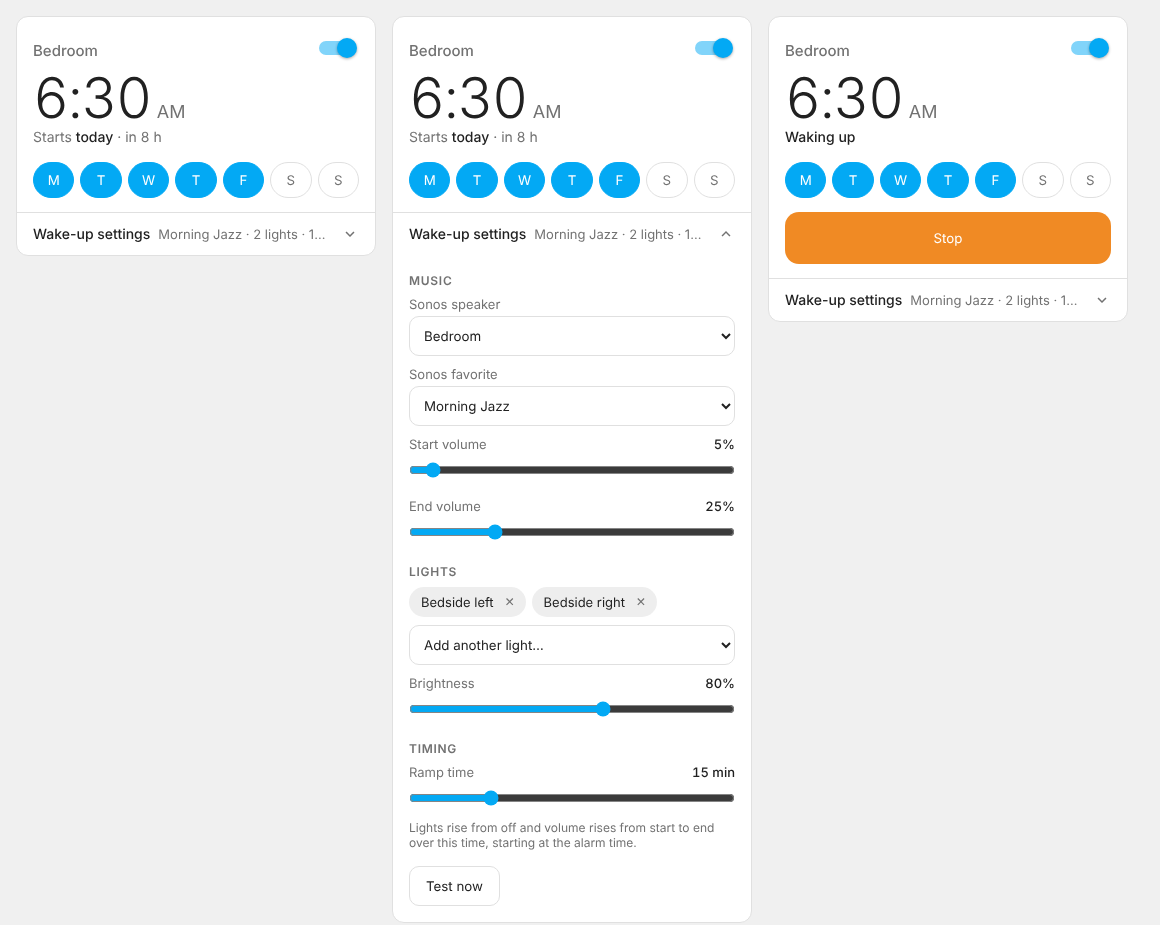
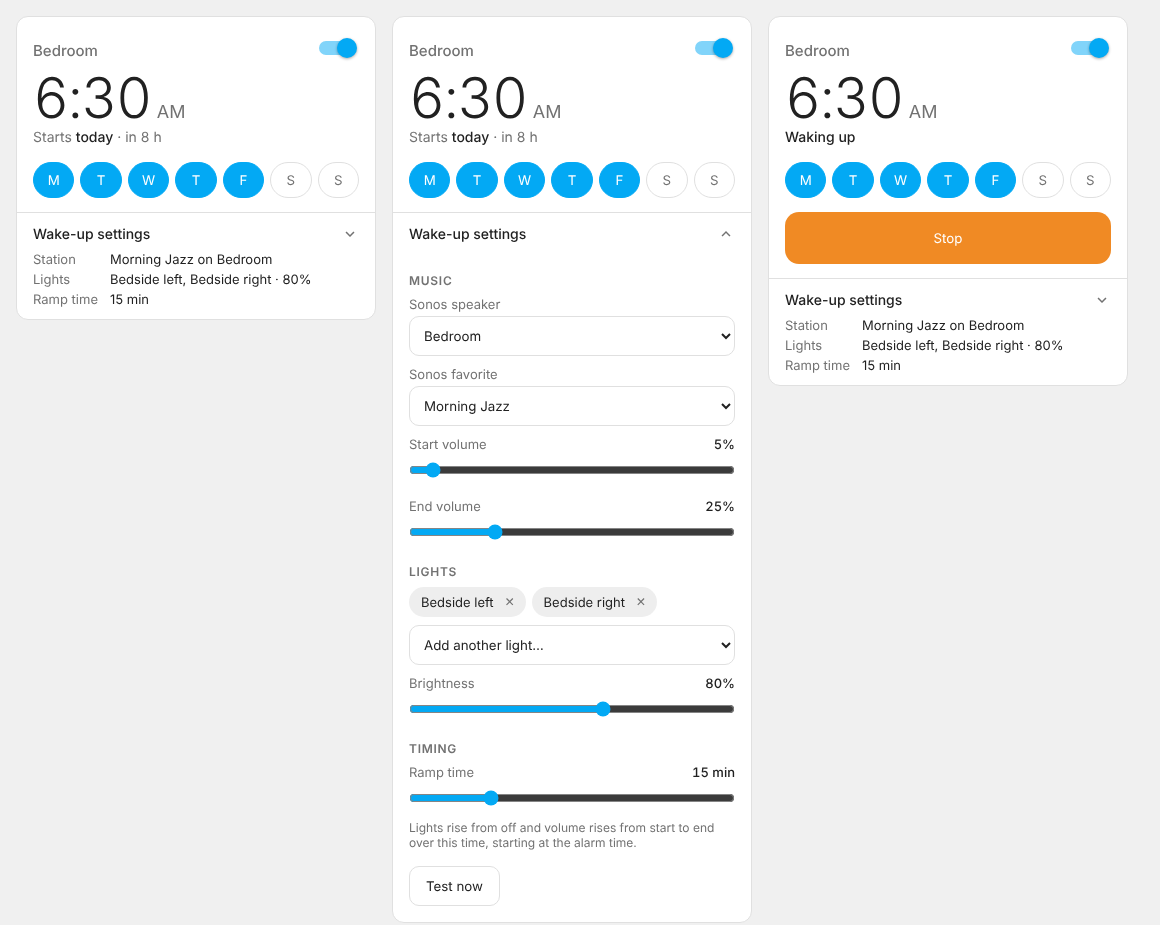
Card: show station, lights and ramp time on separate lines; release 1.0.0
Claude-Session: https://claude.ai/code/session_01XzVmR28ouTyUFrCegEJS1p

diff --git a/custom_components/sunrise_alarm/frontend/sunrise-alarm-card.js b/custom_components/sunrise_alarm/frontend/sunrise-alarm-card.js
@@ -8,7 +8,7 @@
  * favorite, volume, lights, brightness, ramp time) is set from the card.
  */
 
-const CARD_VERSION = "0.2.0";
+const CARD_VERSION = "1.0.0";
 const DOMAIN = "sunrise_alarm";
 const DAYS = ["mon", "tue", "wed", "thu", "fri", "sat", "sun"];
 
@@ -45,13 +45,19 @@ const STYLE = `
     background: #f08a24; color: #fff; font: 500 16px/1 inherit; font-family: inherit; cursor: pointer; }
   .stop[hidden] { display: none; }
 
-  .toggle { display: flex; align-items: center; gap: 8px; margin: 14px -16px -16px; padding: 12px 16px;
+  .toggle { display: block; margin: 14px -16px -16px; padding: 12px 16px;
     border-top: 1px solid var(--divider-color); cursor: pointer; background: none; border-left: 0;
     border-right: 0; border-bottom: 0; width: calc(100% + 32px); text-align: left; font-family: inherit;
     color: var(--primary-text-color); }
-  .toggle .label { font-size: 14px; font-weight: 500; flex: none; }
-  .toggle .brief { font-size: 13px; color: var(--secondary-text-color); flex: 1; min-width: 0;
-    white-space: nowrap; overflow: hidden; text-overflow: ellipsis; text-align: right; }
+  .toggle .head { display: flex; align-items: center; justify-content: space-between; gap: 8px; }
+  .toggle .label { font-size: 14px; font-weight: 500; }
+  .brief { display: grid; grid-template-columns: auto 1fr; column-gap: 12px; row-gap: 4px;
+    margin-top: 8px; font-size: 13px; }
+  .brief .k { color: var(--secondary-text-color); }
+  .brief .v { color: var(--primary-text-color); min-width: 0;
+    white-space: nowrap; overflow: hidden; text-overflow: ellipsis; }
+  .brief .v.none { color: var(--secondary-text-color); }
+  .open .brief { display: none; }
   .chev { width: 18px; height: 18px; flex: none; transition: transform 150ms; fill: var(--secondary-text-color); }
   .open .chev { transform: rotate(180deg); }
   .open .toggle { margin-bottom: 0; }
@@ -207,7 +213,12 @@ class SunriseAlarmCard extends HTMLElement {
         <button class="stop" hidden>Stop</button>
 
         <button class="toggle" aria-expanded="false">
-          <span class="label">Wake-up settings</span><span class="brief"></span>${CHEVRON}
+          <span class="head"><span class="label">Wake-up settings</span>${CHEVRON}</span>
+          <span class="brief">
+            <span class="k">Station</span><span class="v" data-brief="station"></span>
+            <span class="k">Lights</span><span class="v" data-brief="lights"></span>
+            <span class="k">Ramp time</span><span class="v" data-brief="ramp"></span>
+          </span>
         </button>
         <div class="settings">
           <div class="group">
@@ -352,12 +363,18 @@ class SunriseAlarmCard extends HTMLElement {
     });
     $(".stop").hidden = !waking;
 
-    // Collapsed one-line summary
-    const parts = [];
-    if (s.speaker) parts.push(s.favorite_name || this._name(s.speaker));
-    if (s.lights?.length) parts.push(s.lights.length === 1 ? this._name(s.lights[0]) : `${s.lights.length} lights`);
-    parts.push(`${s.ramp_minutes} min`);
-    $(".brief").textContent = parts.join(" · ");
+    // Collapsed summary: one line each for station, lights and ramp time
+    const brief = (key, text) => {
+      const el = this.shadowRoot.querySelector(`[data-brief="${key}"]`);
+      el.textContent = text || "None";
+      el.classList.toggle("none", !text);
+      el.title = text || "";
+    };
+    brief("station", s.speaker
+      ? `${s.favorite_name || "Resume playback"} on ${this._name(s.speaker)}` : "");
+    brief("lights", s.lights?.length
+      ? `${s.lights.map((id) => this._name(id)).join(", ")} · ${s.brightness}%` : "");
+    brief("ramp", `${s.ramp_minutes} min`);
     $(".toggle").setAttribute("aria-expanded", this._open);
 
     if (!this._open) return;

diff --git a/custom_components/sunrise_alarm/const.py b/custom_components/sunrise_alarm/const.py
@@ -5,7 +5,7 @@ from __future__ import annotations
 from typing import Final
 
 DOMAIN: Final = "sunrise_alarm"
-VERSION: Final = "0.2.0"
+VERSION: Final = "1.0.0"
 
 STORAGE_VERSION: Final = 1
 

diff --git a/README.md b/README.md
@@ -93,7 +93,7 @@ actions:
 
 - If a speaker or light fails, the rest of the wake-up still runs; the failure is logged.
 - If Home Assistant restarts mid-ramp, the ramp stops and the next alarm is armed.
-- Upgrading from 0.1: speaker, favorite, lights and volumes carry over; the old snooze button and per-day switches are removed.
+- Upgrading from 0.x: speaker, favorite, lights and volumes carry over; the old snooze button and per-day switches are removed.
 
 ## Development
 
